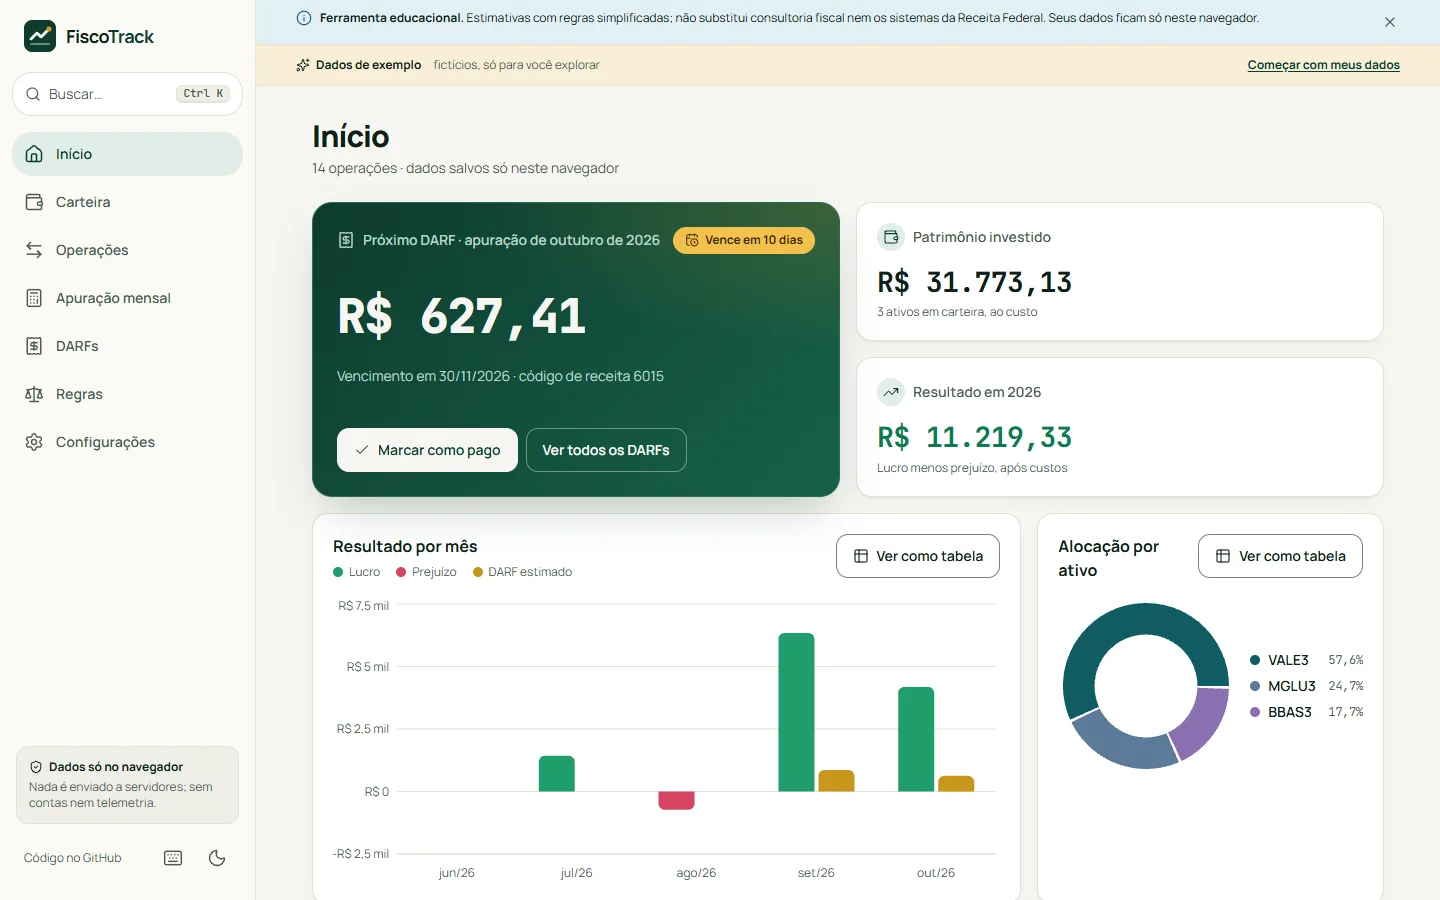
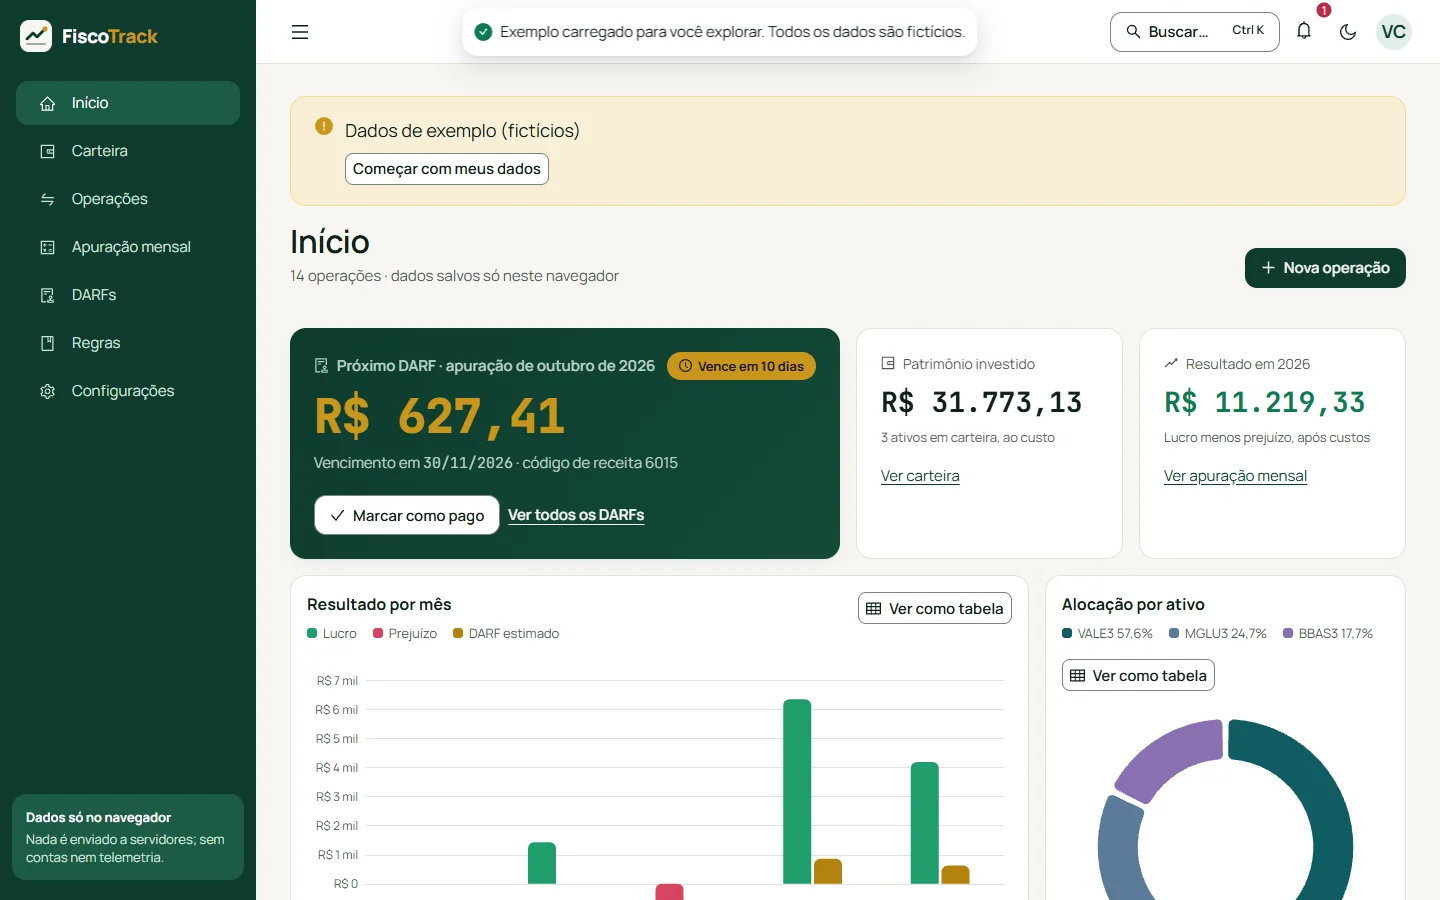
docs: new prints, README with stack, licenses and bundle numbers, ADR 0009

diff --git a/README.md b/README.md
@@ -15,13 +15,17 @@ fonte legal de cada passo. Tudo roda no navegador: seus dados não saem do seu a
 
 ## Telas
 
-| Início (claro)                                                                                          | Início (escuro)                                                                                    |
-| ------------------------------------------------------------------------------------------------------- | -------------------------------------------------------------------------------------------------- |
-| ![Início com próximo DARF, patrimônio e gráficos](docs/prints/fiscotrack-painel-mensal-desktop.webp)    | ![Início no tema escuro](docs/prints/fiscotrack-painel-escuro-desktop.webp)                        |
-| ![Apuração mensal com a conta explicada](docs/prints/fiscotrack-explicacao-calculo-desktop.webp)        | ![Importação de CSV com mapeamento de colunas](docs/prints/fiscotrack-importacao-csv-desktop.webp) |
-| ![Operações com filtros, edição e exclusão com desfazer](docs/prints/fiscotrack-operacoes-desktop.webp) | ![Regras versionadas e fontes](docs/prints/fiscotrack-regras-desktop.webp)                         |
+Interface em Ant Design 6 com a identidade do FiscoTrack (verde-floresta, creme, menta, rosa e
+dourado), claro e escuro, 1440 px no desktop e 390 px no celular.
 
-No celular (390x844):
+| Início (claro)                                                                                       | Início (escuro)                                                                  |
+| ---------------------------------------------------------------------------------------------------- | -------------------------------------------------------------------------------- |
+| ![Início com próximo DARF, patrimônio e gráficos](docs/prints/fiscotrack-painel-mensal-desktop.webp) | ![Início no tema escuro](docs/prints/fiscotrack-painel-escuro-desktop.webp)      |
+| ![Carteira com posições e preço médio](docs/prints/fiscotrack-carteira-desktop.webp)                 | ![Operações com filtros e edição](docs/prints/fiscotrack-operacoes-desktop.webp) |
+| ![Apuração mensal com a conta explicada](docs/prints/fiscotrack-explicacao-calculo-desktop.webp)     | ![DARFs com status](docs/prints/fiscotrack-darfs-desktop.webp)                   |
+| ![Importação de CSV com mapeamento de colunas](docs/prints/fiscotrack-importacao-csv-desktop.webp)   | ![Regras versionadas e fontes](docs/prints/fiscotrack-regras-desktop.webp)       |
+
+No celular (390x844): barra inferior, listas de cards no lugar das tabelas e formulário em gaveta.
 
 <img src="docs/prints/fiscotrack-painel-mensal-mobile.webp" alt="Início no celular" width="260">
 <img src="docs/prints/fiscotrack-operacoes-mobile.webp" alt="Operações no celular" width="260">
@@ -55,19 +59,25 @@ No celular (390x844):
 
 ## Identidade visual e acessibilidade
 
-- **Marca própria:** verde-floresta `#0E3B2E`, creme `#F7F6F1`, menta para ganho, rosa para perda e
-  dourado para DARF. Manrope na interface e JetBrains Mono nos valores (fontes auto-hospedadas,
-  sem requisição externa). Tokens em `apps/web/src/styles/theme.css`
-  ([ADR 0005](docs/adr/0005-identidade-visual-propria.md)).
-- **Contraste AA calculado** nos dois temas: `node scripts/contrast.mjs` confere 38 pares de
-  texto e de interface.
-- **Teclado e leitor de tela:** foco visível, link "Pular para o conteúdo", diálogos nativos
-  (`<dialog>`, com foco preso e Esc), erros ligados ao campo (`aria-describedby`), regiões vivas
-  para avisos, selos de status sempre com ícone e texto.
-- **Mobile:** barra inferior com alvos de 44px e `safe-area-inset`; tabelas viram listas de cards.
-- **Movimento** (entradas escalonadas, contadores, gráficos que se desenham) desligado com
+- **Padrão de UI:** Ant Design 6 e Apache ECharts 6, sempre através dos wrappers de
+  `apps/web/src/ui/` ([ADR 0009](docs/adr/0009-ui-com-ant-design-echarts-e-wrappers.md)). Uma regra
+  de lint (`no-restricted-imports`) barra `antd`, `@ant-design/*` e `echarts*` fora dessa pasta.
+- **Tema central** (`src/ui/theme`): a paleta da marca (verde-floresta `#0E3B2E`, creme `#F7F6F1`,
+  menta para ganho, rosa para perda e dourado para DARF) vira tokens do Ant Design, claro e escuro com
+  `theme.darkAlgorithm`. Manrope na interface e **JetBrains Mono tabular nos valores** (fontes
+  auto-hospedadas, sem requisição externa).
+- **Contraste AA calculado** nos dois temas: `test/contrast.test.ts` confere 90 pares de texto,
+  interface e gráficos (texto ≥ 4,5:1; interface ≥ 3:1) a partir do mesmo arquivo de paleta que gera
+  o tema.
+- **Teclado e leitor de tela:** foco visível, link "Pular para o conteúdo", diálogos do Ant Design
+  com foco preso, Esc e retorno do foco, erros ligados ao campo, avisos com `role`, selos de status
+  sempre com ícone e texto, gráficos com descrição e **tabela equivalente** ("Ver como tabela").
+- **Celular:** menu lateral vira gaveta, barra inferior com `safe-area-inset`, tabelas viram listas de
+  cards, formulário numa gaveta inferior com ações fixas e alvos de 44 px (`controlHeight`).
+- **Movimento** (contador do DARF, gráficos que se desenham, transições do Ant Design) desligado com
   `prefers-reduced-motion`.
-- **axe-core** sem violações nas 9 telas, nos dois temas (E2E).
+- **axe-core** sem violações nas 9 telas, nos dois temas, em 360 e 1440 px (E2E), além de diálogo
+  aberto, paleta de comandos e estado vazio.
 
 ## Regras modeladas (simplificadas)
 
@@ -101,8 +111,9 @@ flowchart LR
   subgraph web["apps/web (React 19 + Vite)"]
     store["OperationsProvider<br/>(IndexedDB: operações + DARFs pagos)"]
     domain["domain/*<br/>portfólio, DARF, CSV,<br/>backup, exemplo"]
-    ui["Telas lazy<br/>Início, Carteira, Operações,<br/>Apuração, DARFs, Config"]
-    store --> domain --> ui
+    pages["Telas lazy<br/>Início, Carteira, Operações,<br/>Apuração, DARFs, Config"]
+    ui["src/ui<br/>wrappers sobre Ant Design e ECharts<br/>+ tema central + Storybook"]
+    store --> domain --> pages --> ui
   end
   domain -->|"usa"| calc
 ```
@@ -110,8 +121,8 @@ flowchart LR
 ```
 packages/engine   TypeScript puro, sem dependências: preço médio, apuração mensal, isenção,
                   compensação de prejuízo, DARF estimado, explicação passo a passo, regras por data
-apps/web          React 19 + Vite + React Router (HashRouter) + Zod + idb + Recharts + Tailwind 4
-                  + lucide-react + motion
+apps/web          React 19 + Vite + React Router (HashRouter) + Zod + idb + Ant Design + ECharts
+apps/web/src/ui   Wrappers (AppButton, AppTable, AppCard, AppForm, AppModal, AppChart...), tema e stories
 apps/web/e2e      Playwright + axe-core
 docs/adr          Decisões de arquitetura
 ```
@@ -121,7 +132,7 @@ docs/adr          Decisões de arquitetura
 - Carteira e DARFs são **derivados** das operações com as mesmas funções do motor; só o status
   "pago" é salvo ([ADR 0007](docs/adr/0007-dados-derivados-e-darf-pago.md)).
 - Operações problemáticas (venda sem posição, data sem regra) viram `issues` e o relatório é
-  marcado como **parcial** — nunca um cálculo silencioso.
+  marcado como **parcial**, nunca um cálculo silencioso.
 
 ADRs: [motor puro](docs/adr/0001-motor-de-calculo-puro.md) ·
 [regras versionadas](docs/adr/0002-regras-versionadas-por-data.md) ·
@@ -130,7 +141,29 @@ ADRs: [motor puro](docs/adr/0001-motor-de-calculo-puro.md) ·
 [identidade visual própria](docs/adr/0005-identidade-visual-propria.md) ·
 [E2E com axe](docs/adr/0006-e2e-com-axe-e-build-portatil.md) ·
 [dados derivados e DARF pago](docs/adr/0007-dados-derivados-e-darf-pago.md) ·
-[ordem estável, ids determinísticos e escritas seguras](docs/adr/0008-ordem-estavel-ids-deterministicos-e-escritas-seguras.md)
+[ordem estável, ids determinísticos e escritas seguras](docs/adr/0008-ordem-estavel-ids-deterministicos-e-escritas-seguras.md) ·
+[Ant Design, ECharts e wrappers](docs/adr/0009-ui-com-ant-design-echarts-e-wrappers.md)
+
+### Camada de UI e Storybook
+
+Nenhuma tela usa componente do Ant Design diretamente. Os wrappers de `apps/web/src/ui` seguem o
+contrato `App*` (por exemplo `AppButton` com `variant`, `size`, `loading`, `disabled`, `icon` e
+`danger`): AppButton, AppIconButton, AppInput, AppSelect, AppCheckbox, AppSwitch, AppDatePicker,
+AppForm/AppFormItem, AppTable (vira lista de cards no celular), AppList, AppCard, AppStatistic,
+AppTag/AppStatus, AppMoney, AppModal, AppDrawer, AppConfirm, AppToast, AppSteps, AppEmpty,
+AppSkeleton, AppAlert, AppUpload, AppCollapse, AppProgress, AppTabBar, AppPagination, AppTabs,
+AppMenu, AppDropdown, AppTooltip, AppPopover, AppBreadcrumb, AppSegmented, AppResult,
+AppDescriptions, AppAvatar, AppBadge, layout e tipografia, e AppChart com `AppBarChart`,
+`AppLineChart` e `AppDonutChart` (ECharts com `echarts/core` enxuto e renderizador SVG).
+
+Cada wrapper tem `.stories.tsx` na mesma pasta, com estados (padrão, desabilitado, carregando, erro,
+vazio) e controles. O Storybook aplica o tema do app (alternável claro/escuro na barra) e o addon
+de acessibilidade:
+
+```bash
+npm run storybook -w @fiscotrack/web         # http://localhost:6006
+npm run build-storybook                      # gera apps/web/storybook-static (roda no CI)
+```
 
 ## Como rodar
 
@@ -142,12 +175,12 @@ npm run dev            # app em http://localhost:5173
 npm test               # testes de todos os pacotes
 npm run test:coverage  # cobertura (engine exige ≥ 90%)
 npm run lint && npm run format:check && npm run typecheck && npm run build
+npm run build-storybook
 npm run build:portable && npm run test:e2e -w @fiscotrack/web   # E2E + axe
-node scripts/contrast.mjs                                        # contraste AA dos temas
 ```
 
-Para os E2E usando o Chrome já instalado: `PW_CHANNEL=chrome npm run test:e2e -w @fiscotrack/web`.
-Em outra máquina, instale o navegador antes: `npx playwright install chromium`.
+Para os E2E usando o Chrome já instalado: `PW_CHANNEL=chrome npm run test:e2e -w @fiscotrack/web`
+(a porta vem de `E2E_PORT`). Em outra máquina, instale o navegador antes: `npx playwright install chromium`.
 
 ### Build portátil (qualquer subcaminho)
 
@@ -171,19 +204,58 @@ mapeamento antes de importar.
 
 ## Testes e desempenho
 
-| Verificação                              | Resultado                                                                                                                                                                                   |
-| ---------------------------------------- | ------------------------------------------------------------------------------------------------------------------------------------------------------------------------------------------- |
-| Testes do motor (Vitest, table-driven)   | 73 passando                                                                                                                                                                                 |
-| Testes da web (Vitest + Testing Library) | 107 passando: domínio (DARF, carteira, backup, mapeamento de CSV, exemplo, formatação) e fluxos de interface                                                                                |
-| E2E (Playwright, desktop e celular)      | 24 execuções (12 cenários em desktop e celular): primeira visita, CRUD com desfazer, importação, backup, paleta, rota interna e axe em todas as telas, com diálogo aberto e no estado vazio |
-| Acessibilidade (axe, WCAG 2.2 AA)        | 0 violações nas 9 telas, tema claro e escuro, em 390 e 1440 px                                                                                                                              |
-| Contraste (scripts/contrast.mjs)         | 38 pares aprovados (texto ≥ 4,5:1; interface ≥ 3:1)                                                                                                                                         |
-| Bundle inicial (build portátil)          | JS 430 kB (140 kB gzip) e CSS 49 kB (14 kB gzip); gráficos (Recharts, ~412 kB) e cada tela carregam sob demanda                                                                             |
+| Verificação                                  | Resultado                                                                                                                                   |
+| -------------------------------------------- | ------------------------------------------------------------------------------------------------------------------------------------------- |
+| Testes do motor (Vitest, table-driven)       | 73 passando (o motor e seus testes não mudaram)                                                                                             |
+| Testes da web (Vitest + Testing Library)     | 197 passando: domínio, fluxos de interface (26 de componente) e 90 pares de contraste AA                                                    |
+| E2E (Playwright, desktop 1440 e celular 360) | 26 execuções (13 cenários nos dois formatos): 24 passam e 2 são pulados de propósito (atalhos de teclado só no desktop, menu só no celular) |
+| Acessibilidade (axe, WCAG 2.2 AA)            | 0 violações nas 9 telas, tema claro e escuro, em 360 e 1440 px, com diálogo aberto, paleta de comandos e estado vazio                       |
+| Geometria dos diálogos (E2E)                 | Modal, gaveta e confirmação cabem na viewport, com o botão de salvar visível, e o foco volta para quem abriu                                |
+| Stories (Storybook 10 + addon a11y)          | Todos os wrappers, com estados e controles; `build-storybook` no CI                                                                         |
+
+### Bundle: antes e depois
+
+Medido no build portátil (`apps/web/dist-portable`), JavaScript carregado na primeira tela:
+
+| Medida                            | Antes (Tailwind + Recharts + lucide + motion) | Depois (Ant Design + ECharts)            |
+| --------------------------------- | --------------------------------------------- | ---------------------------------------- |
+| JS inicial                        | 430 kB (140 kB gzip)                          | **1.442 kB (455 kB gzip)**               |
+| CSS inicial                       | 49 kB (14 kB gzip)                            | **10 kB (6 kB gzip)**                    |
+| Gráficos (carregam só com a tela) | Recharts, ~412 kB                             | ECharts enxuto, **592 kB (202 kB gzip)** |
+
+O Ant Design é pesado: o JavaScript inicial triplicou, o CSS caiu porque o estilo agora vem do
+CSS-in-JS dos componentes. O que foi feito para conter o custo: imports nomeados por componente,
+rotas e gráficos carregados sob demanda (o ECharts fica fora do índice de `ui` para não entrar na
+primeira tela), `echarts/core` com só barras, linha e rosca, renderizador SVG e remoção de
+Tailwind, Recharts, lucide-react e motion. Não há como remover o custo do Ant Design sem abandonar o
+padrão de UI.
 
 Casos do motor: zero operações, somente compras, custos de compra e venda, isenção (abaixo, exatamente
 no limite e um centavo acima), prejuízo acumulado e compensação, day trade separado de operações
 comuns, DARF abaixo do mínimo, arredondamento, ordenação por data, regras versionadas e relatório
 parcial.
+
+## Dependências e licenças
+
+Versões exatas no `package.json`; `npm audit` sem vulnerabilidade alta ou crítica em produção.
+
+| Pacote                                              | Uso                                      | Licença                |
+| --------------------------------------------------- | ---------------------------------------- | ---------------------- |
+| antd 6.7.1                                          | Componentes (só via `src/ui`)            | MIT                    |
+| @ant-design/icons 6.3.4                             | Ícones                                   | MIT                    |
+| dayjs 1.11.23                                       | Datas do seletor de data                 | MIT                    |
+| echarts 6.1.0                                       | Gráficos (`echarts/core` enxuto)         | Apache-2.0             |
+| echarts-for-react 3.1.0                             | Ciclo de vida do gráfico no React        | MIT                    |
+| react, react-dom 19.3.1                             | Interface                                | MIT                    |
+| react-router 8.5.2                                  | Rotas por hash                           | MIT                    |
+| zod 4.6.7                                           | Validação de CSV, backup e formulário    | MIT                    |
+| idb 8.0.4                                           | IndexedDB                                | ISC (permissiva)       |
+| @fontsource-variable/manrope, jetbrains-mono 5.3.0  | Fontes auto-hospedadas                   | OFL-1.1 (fontes)       |
+| storybook, @storybook/react-vite, addon-a11y 10.6.8 | Storybook (desenvolvimento)              | MIT                    |
+| @playwright/test 1.65.1                             | E2E (desenvolvimento)                    | Apache-2.0             |
+| @axe-core/playwright 4.14.0                         | Acessibilidade nos E2E (desenvolvimento) | MPL-2.0 (só em testes) |
+
+Tailwind, Recharts, lucide-react e motion foram removidos; não há motivo para mantê-los.
 
 ## Licença
 

diff --git a/docs/adr/0009-ui-com-ant-design-echarts-e-wrappers.md b/docs/adr/0009-ui-com-ant-design-echarts-e-wrappers.md
@@ -1,0 +1,37 @@
+# 0009. Interface com Ant Design, ECharts e wrappers próprios
+
+## Contexto
+
+A primeira versão da interface foi desenhada à mão com Tailwind e Recharts. O dono do projeto
+pediu para adotar o padrão de UI dele: Ant Design nos componentes, Apache ECharts nos gráficos,
+tema central com os tokens da marca e Storybook.
+
+## Decisão
+
+- **Ant Design 6** (MIT) para os componentes e **ECharts 6** (Apache 2.0) para os gráficos, com
+  `echarts/core` registrando só barras, linha, rosca, grade, tooltip, linha de marcação, aria e o
+  renderizador SVG. `echarts-for-react` (MIT) cuida do ciclo de vida do gráfico.
+- **Nenhuma tela importa `antd` ou `echarts`.** Tudo passa por `apps/web/src/ui/` (`AppButton`,
+  `AppTable`, `AppCard`, `AppStatistic`, `AppForm`, `AppModal`, `AppDrawer`, `AppChart`...). Uma regra
+  de lint (`no-restricted-imports`) barra `antd`, `@ant-design/*` e `echarts*` fora de `src/ui/`.
+- **Tema central** em `src/ui/theme`: a paleta do FiscoTrack (`palette.ts`) vira tokens do Ant Design
+  (`buildTheme.ts`), claro e escuro com `theme.darkAlgorithm`. O mesmo `palette.ts` alimenta os
+  gráficos e o teste de contraste (`test/contrast.test.ts`, 90 pares WCAG 2.2 AA).
+- **Valores em fonte mono tabular** (JetBrains Mono) em `AppMoney`, `AppStatistic` e colunas
+  numéricas; interface em Manrope.
+- **Tailwind, Recharts, lucide-react e motion saíram.** Ícones vêm de `@ant-design/icons` (MIT) e a
+  animação dos números é um contador de ~20 linhas. Nada foi mantido por inércia.
+- **Celular:** o menu lateral vira gaveta, há barra inferior, as tabelas viram listas de cards
+  (`AppTable` com `renderCard`) e o formulário de operação abre numa gaveta inferior. Alvos de 44 px
+  pelo token `controlHeight`.
+- **Storybook 10** com o addon de acessibilidade, stories com estados e controles para todos os
+  wrappers, e `build-storybook` no CI.
+
+## Consequências
+
+- O visual passa a ser o do Ant Design com a identidade do FiscoTrack aplicada pelos tokens; trocar
+  a paleta é editar um arquivo.
+- O bundle ficou maior no JavaScript (o Ant Design é pesado) e menor no CSS; os números reais estão
+  no README. Os gráficos continuam carregando sob demanda.
+- Os testes de componente rodam com `motion: false` e `NODE_ENV=development` no `setup.ts`, porque
+  o Ant Design usa um id fixo para diálogos quando `NODE_ENV=test`.

diff --git a/docs/adr/0005-identidade-visual-propria.md b/docs/adr/0005-identidade-visual-propria.md
@@ -11,10 +11,10 @@ genérico e dividia a aparência com outro projeto.
 ## Decisão
 
 - Tokens próprios em `apps/web/src/styles/theme.css` (verde-floresta, creme, menta para ganho, rosa
-  para perda, dourado para DARF) mapeados para o Tailwind 4 com `@theme inline`.
+  para perda, dourado para DARF) mapeados para os tokens do tema (hoje o do Ant Design, ver ADR 0009).
 - Manrope na interface e JetBrains Mono nos valores, auto-hospedadas via `@fontsource-variable`.
 - Texto colorido usa tons mais escuros que as cores de preenchimento dos gráficos, para manter
-  contraste AA. `scripts/contrast.mjs` calcula os pares nos dois temas.
+  contraste AA. o teste `apps/web/test/contrast.test.ts` calcula os pares nos dois temas (substituiu o antigo `scripts/contrast.mjs`; ver [ADR 0009](0009-ui-com-ant-design-echarts-e-wrappers.md)).
 - Ícones `lucide-react`; animações com `motion`, todas desligadas com `prefers-reduced-motion`.
 - Diálogos usam o elemento nativo `<dialog>` (foco preso, Esc e retorno de foco pelo navegador).
 
